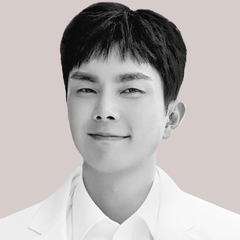
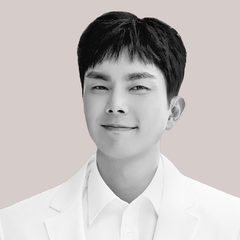
타임테이블: 프로필 사진 얼굴 크기·위치 통일, 정희진 머리카락 살림
Claude-Session: https://claude.ai/code/session_01R7psaqm8m7GEAGGww3SgQz

diff --git a/index.html b/index.html
@@ -901,7 +901,7 @@ try{ if('scrollRestoration' in history) history.scrollRestoration='manual'; }cat
   const av=n=>{ if(n==='SMCC') return `<span class="av logo"><img src="img/smcc.png" alt="SMCC"></span>`;
     if(n==='스페셜 게스트') return `<span class="av guest" aria-hidden="true"><svg width="20" height="20" viewBox="0 0 24 24"><path d="M12 1.5C12.7 7.4 16.6 11.3 22.5 12C16.6 12.7 12.7 16.6 12 22.5C11.3 16.6 7.4 12.7 1.5 12C7.4 11.3 11.3 7.4 12 1.5Z" fill="#7A5450"/></svg></span>`;
     const f=PHOTO[n]; if(!f) return `<span class="av" aria-hidden="true">${n.slice(0,1)}</span>`;
-    return `<span class="av photo"><img src="img/${f}.png?v=3" alt="" loading="lazy"></span>`; };
+    return `<span class="av photo"><img src="img/${f}.png?v=4" alt="" loading="lazy"></span>`; };
   const dur=t=>{const m=t.match(/(\d+):(\d+)\D+(\d+):(\d+)/); if(!m) return ''; const d=(+m[3]*60+ +m[4])-(+m[1]*60+ +m[2]); return d>0?d+'분':'';};
   const ACT={open:()=>`<a class="s-book" href="${BOOK}" target="_blank" rel="noopener">예매하기 ↗</a>`,
     soon:()=>`<span class="c-state soon">오픈 예정</span>`,
